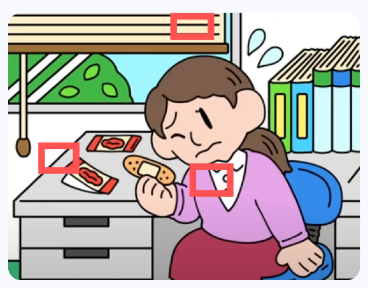
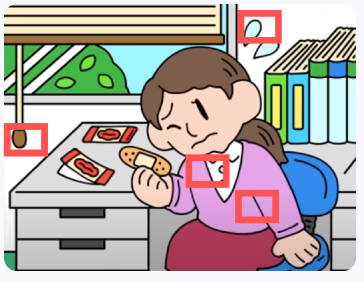
共通エッジ抑制マスクを導入し、線の一致部を減衰。diffFinalを正規化して推論に供給。存在検証テストを追加。

diff --git a/diffapp/lib/screens/compare_page.dart b/diffapp/lib/screens/compare_page.dart
@@ -241,7 +241,18 @@ class _ComparePageState extends State<ComparePage>
       final m1 = s > c ? s : c;
       return m1 > g ? m1 : g;
     });
-    final diffN = normalizeToUnit(diffCombined);
+    // 画像間で共通して強いエッジ（min(gradL,gradR)）は誤検出の温床になりやすいので抑制
+    final edgeCommon = List<double>.generate(diffCombined.length, (i) {
+      final a = gradL[i];
+      final b = gradR[i];
+      return a < b ? a : b;
+    });
+    final edgeSuppression = List<double>.generate(edgeCommon.length, (i) => 1.0 - edgeCommon[i]);
+    final diffFinal = List<double>.generate(diffCombined.length, (i) {
+      final mask = 0.6 + 0.4 * edgeSuppression[i]; // 共通エッジでは~0.6倍、フラット領域では1.0倍
+      return diffCombined[i] * mask;
+    });
+    final diffN = normalizeToUnit(diffFinal);
 
     final detector = widget.detector ?? FfiCnnDetector();
     await detector.load(Uint8List(0)); // モデル無しでもロード済み扱い

diff --git a/src/diff_edge_suppression_present.test.ts b/src/diff_edge_suppression_present.test.ts
@@ -1,0 +1,14 @@
+import { describe, it, expect } from 'vitest';
+import { readFileSync } from 'node:fs';
+
+describe('エッジ共通部位の抑制で誤検出を下げる', () => {
+  it('compare_page.dart に edgeSuppression の計算と適用がある', () => {
+    const t = readFileSync('diffapp/lib/screens/compare_page.dart', 'utf-8');
+    expect(t).toMatch(/edgeSuppression/);
+    expect(t).toMatch(/final\s+edgeCommon\s*=/);
+    expect(t).toMatch(/final\s+diffFinal\s*=\s*List<double>\.generate\(/);
+    // diffFinal -> normalizeToUnit(diffFinal) -> detector.detectFromDiffMap(diffN,
+    expect(t).toMatch(/final\s+diffN\s*=\s*normalizeToUnit\(diffFinal\)/);
+    expect(t).toMatch(/detector\.detectFromDiffMap\(\s*diffN,/s);
+  });
+});
